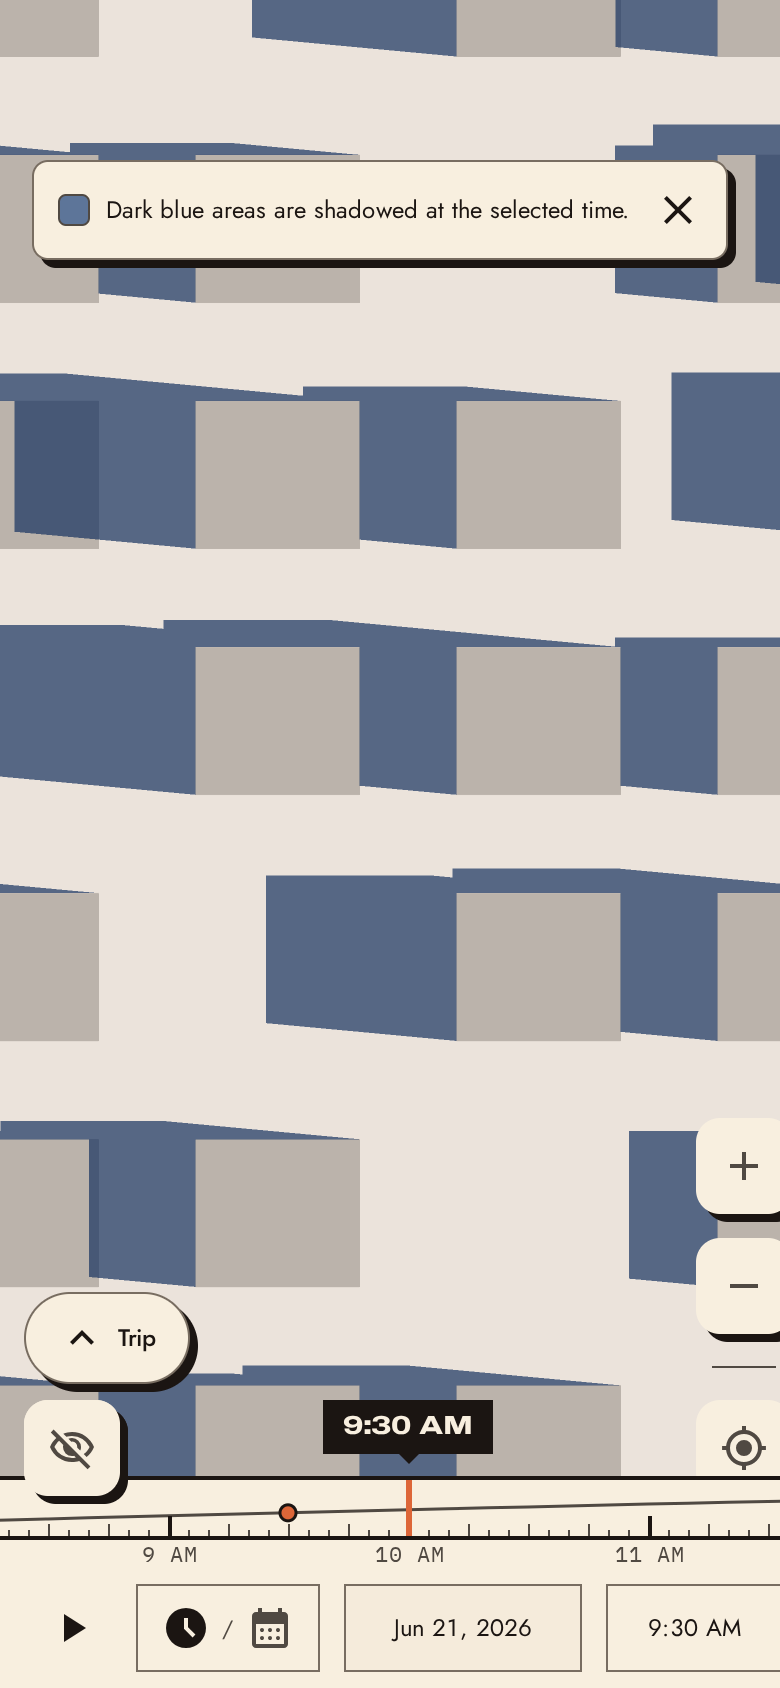
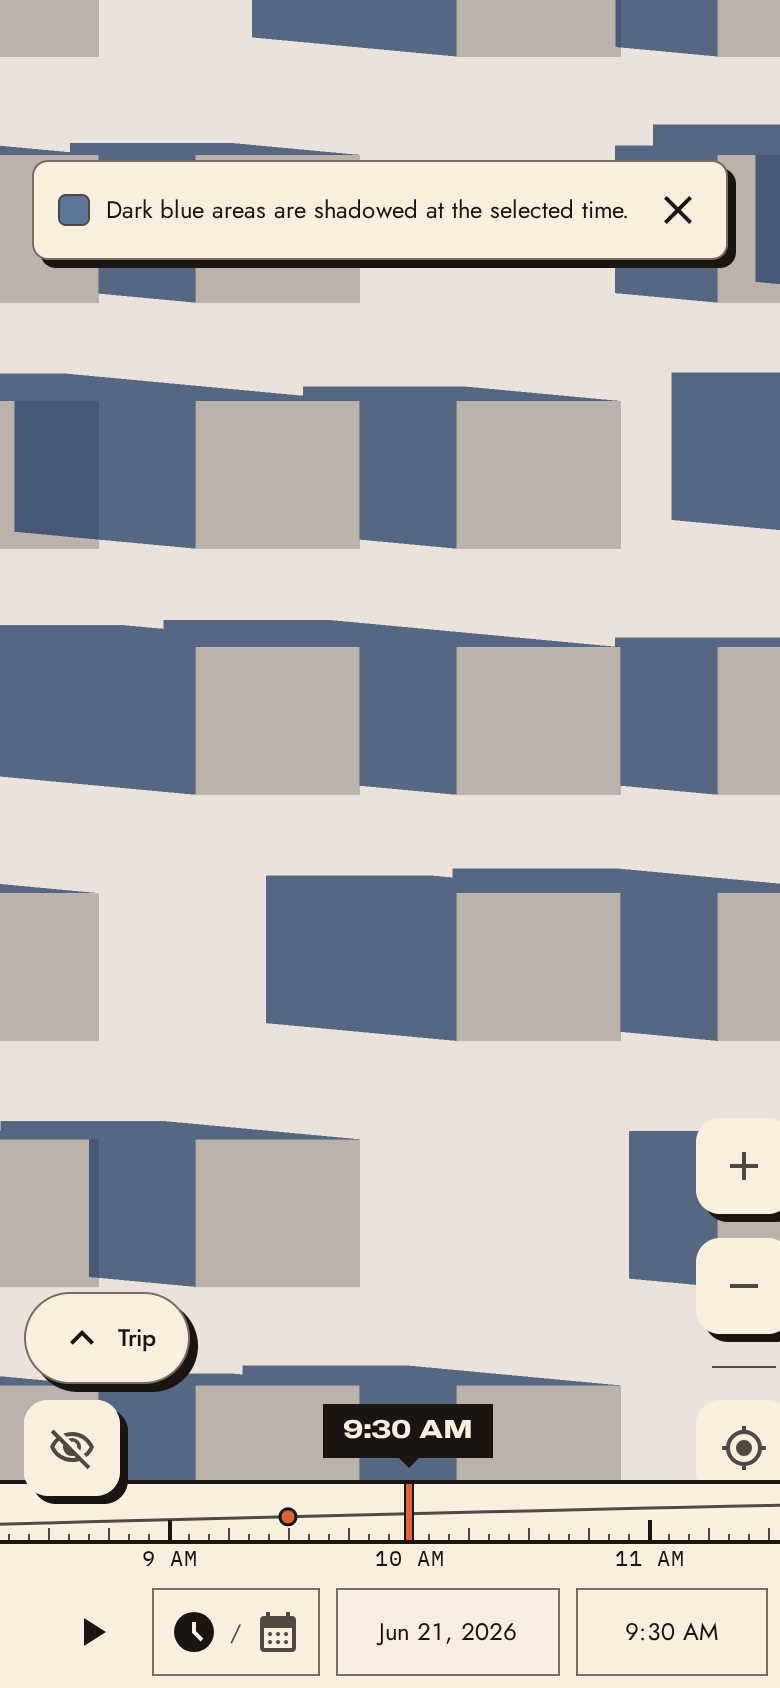
fix(design): hold the R6a timeline in glare and inside 390px
Ink keylines on the day needle, full-ink hour labels, a 2px ink border on an
editing Time/Date field, a no-sun-path note without a map place, and a controls
row that fits 390px while the card keeps its 104px. Updates the touch audit
and the Track R brief.

Changed region(s): [[0.0, 0.8318, 1.0, 1.0], [0.0615, 0.955, 0.1231, 0.9858]]

diff --git a/app/components/TimelineSlider.tsx b/app/components/TimelineSlider.tsx
@@ -125,7 +125,7 @@ const Ruler = memo(function Ruler() {
                 whiteSpace: "nowrap",
                 fontSize: 11,
                 lineHeight: 1,
-                color: "var(--color-ink-muted)",
+                color: "var(--color-ink)",
                 fontFamily: "var(--font-mono)",
                 userSelect: "none",
                 pointerEvents: "none",
@@ -182,6 +182,14 @@ const TimelineSlider = memo(function TimelineSlider({ minutes, onChange, date, l
         ? sunAltitudeTrace(date, latDeg, lngDeg, effectiveOffset)
         : null,
     [dayKey, latDeg, lngDeg, effectiveOffset],
+  );
+  const nights = useMemo(() => (trace ? nightSpans(trace) : []), [trace]);
+  const sunPathPoints = useMemo(
+    () =>
+      trace
+        ?.map((alt, i) => `${i * SUN_PATH_STEP_MIN * PX_PER_MIN},${RULE_Y - Math.max(0, alt) * PX_PER_DEG}`)
+        .join(" "),
+    [trace],
   );
   const containerRef = useRef<HTMLDivElement>(null);
   const contentRef = useRef<HTMLDivElement>(null);
@@ -355,21 +363,20 @@ const TimelineSlider = memo(function TimelineSlider({ minutes, onChange, date, l
         style={{ width: TOTAL_PX, willChange: "transform" }}
       >
         {/* ── Night: flat bands wherever the sun is at or below 0° ─────── */}
-        {trace &&
-          nightSpans(trace).map(([from, to]) => (
-            <div
-              key={from}
-              data-testid="timeline-night"
-              style={{
-                position: "absolute",
-                left: from * PX_PER_MIN,
-                width: (to - from) * PX_PER_MIN,
-                top: 0,
-                bottom: 0,
-                backgroundColor: "color-mix(in srgb, var(--color-ink) 8%, transparent)",
-              }}
-            />
-          ))}
+        {nights.map(([from, to]) => (
+          <div
+            key={from}
+            data-testid="timeline-night"
+            style={{
+              position: "absolute",
+              left: from * PX_PER_MIN,
+              width: (to - from) * PX_PER_MIN,
+              top: 0,
+              bottom: 0,
+              backgroundColor: "color-mix(in srgb, var(--color-ink) 8%, transparent)",
+            }}
+          />
+        ))}
 
         {sunriseMin !== undefined && <SunEventLabel minutes={sunriseMin} side="left" text={`↑ ${fmtMin(sunriseMin)}`} />}
         {sunsetMin !== undefined && <SunEventLabel minutes={sunsetMin} side="right" text={`↓ ${fmtMin(sunsetMin)}`} />}
@@ -385,15 +392,12 @@ const TimelineSlider = memo(function TimelineSlider({ minutes, onChange, date, l
             aria-hidden="true"
           >
             <polyline
-              points={trace
-                .map((alt, i) => `${i * SUN_PATH_STEP_MIN * PX_PER_MIN},${RULE_Y - Math.max(0, alt) * PX_PER_DEG}`)
-                .join(" ")}
+              points={sunPathPoints}
               fill="none"
               stroke="var(--color-ink-muted)"
               strokeWidth={1.5}
             />
-            {/* sun dot at the slider's time — the only element this component
-                re-renders for during a drag */}
+            {/* sun dot at the slider's time — with the needle, what a drag re-renders */}
             {sunDot && (
               <circle
                 data-testid="timeline-sun"
@@ -412,7 +416,8 @@ const TimelineSlider = memo(function TimelineSlider({ minutes, onChange, date, l
         <Ruler />
       </div>
 
-      {/* Needle: stands on the rule at the selected time, clear of the labels */}
+      {/* Needle: stands on the rule at the selected time, clear of the labels.
+          Ink keylines hold the orange core against the day panel in glare. */}
       <div
         data-testid="timeline-needle"
         className="absolute pointer-events-none z-10"
@@ -420,11 +425,20 @@ const TimelineSlider = memo(function TimelineSlider({ minutes, onChange, date, l
           left: "50%",
           top: 0,
           height: RULE_Y,
-          width: 3,
-          transform: "translateX(-1px)",
+          width: 5,
+          transform: "translateX(-2px)",
           backgroundColor: needleColor,
+          borderInline: "1px solid var(--color-ink)",
         }}
       />
+      {!trace && (
+        <span
+          className="absolute left-3 pointer-events-none select-none"
+          style={{ top: 2, fontSize: 11, lineHeight: 1, color: "var(--color-ink-muted)", fontFamily: "var(--font-mono)" }}
+        >
+          No sun path until the map has a place
+        </span>
+      )}
     </div>
   );
 });

diff --git a/app/page.tsx b/app/page.tsx
@@ -113,11 +113,11 @@ function TimeInput({
             setEditing(false);
           }
         }}
-        className="min-h-11 px-2 py-1 text-xs border focus:outline-none w-24 text-center"
+        className="min-h-11 px-2 py-1 text-xs border-2 focus:outline-none w-24 text-center"
         style={{
           background: "var(--color-ground)",
           color: "var(--color-ink)",
-          borderColor: "var(--color-rule)",
+          borderColor: "var(--color-ink)",
           fontFamily: "var(--font-sans)",
         }}
       />
@@ -822,7 +822,7 @@ export default function Home() {
     // Timetable (R6a): square, with a 2px ink rule along the top that holds
     // against either basemap in glare.
     <div
-      className="overflow-hidden border-t-2 md:border-2"
+      className="border-t-2 md:border-2"
       style={{
         background: "var(--color-panel)",
         borderColor: "var(--color-ink)",
@@ -889,8 +889,10 @@ export default function Home() {
         />
       )}
 
-      {/* Controls row */}
-      <div className="flex items-center justify-center gap-3 px-4 py-2">
+      {/* Controls row — pb-1.5 gives back the 2px top rule, so the card keeps
+          its 104px and the floating map controls their clearance. gap-2/px-2
+          fit the row inside 390px. */}
+      <div className="flex items-center justify-center gap-2 px-2 pt-2 pb-1.5">
         <button
           type="button"
           onClick={() => setIsPlaying((p) => !p)}
@@ -909,7 +911,7 @@ export default function Home() {
         <button
           type="button"
           onClick={() => setSliderMode((m) => (m === "time" ? "day" : "time"))}
-          className="flex min-h-11 items-center gap-1.5 px-3 hover:bg-ground transition-colors border"
+          className="flex min-h-11 items-center gap-1.5 px-2 hover:bg-ground transition-colors border"
           style={{ borderColor: "var(--color-rule)" }}
           title={sliderMode === "time" ? "Switch to day of year" : "Switch to time of day"}
         >

diff --git a/app/components/DateInput.tsx b/app/components/DateInput.tsx
@@ -106,11 +106,11 @@ const DateInput = memo(function DateInput({
             setEditing(false);
           }
         }}
-        className="min-h-11 px-2 py-1 text-xs border focus:outline-none w-32 text-center"
+        className="min-h-11 px-2 py-1 text-xs border-2 focus:outline-none w-28 text-center"
         style={{
           background: "var(--color-ground)",
           color: "var(--color-ink)",
-          borderColor: "var(--color-rule)",
+          borderColor: "var(--color-ink)",
           fontFamily: "var(--font-sans)",
         }}
       />
@@ -122,7 +122,7 @@ const DateInput = memo(function DateInput({
       type="button"
       aria-label={ariaLabel}
       onClick={startEdit}
-      className="min-h-11 text-xs tabular-nums w-32 text-center border px-2 py-1 hover:bg-ground transition-colors"
+      className="min-h-11 text-xs tabular-nums w-28 text-center border px-2 py-1 hover:bg-ground transition-colors"
       style={{
         color: "var(--color-ink)",
         borderColor: "var(--color-rule)",

diff --git a/app/components/__tests__/TimelineSlider.test.tsx b/app/components/__tests__/TimelineSlider.test.tsx
@@ -56,10 +56,11 @@ describe("TimelineSlider", () => {
     expect(screen.getByText("↓ 8:31 PM")).toBeTruthy();
   });
 
-  it("draws no sun path without a map place", () => {
+  it("says there is no sun path without a map place, rather than drawing none", () => {
     render(<TimelineSlider minutes={600} onChange={() => {}} />);
     expect(screen.queryByTestId("timeline-sun")).toBeNull();
     expect(screen.queryByTestId("timeline-night")).toBeNull();
+    expect(screen.getByText("No sun path until the map has a place")).toBeTruthy();
     expect(screen.getByText("10 AM")).toBeTruthy();
   });
 });

diff --git a/app/components/DaySlider.tsx b/app/components/DaySlider.tsx
@@ -192,7 +192,7 @@ const DaySlider = memo(function DaySlider({ dayOfYear, year, onChange }: Props) 
             {label && (
               <span
                 className="absolute text-[11px] leading-none whitespace-nowrap select-none"
-                style={{ top: RULE_Y + RULE_W + 2, left: 2, color: "var(--color-ink-muted)", fontFamily: "var(--font-mono)" }}
+                style={{ top: RULE_Y + RULE_W + 2, left: 2, color: "var(--color-ink)", fontFamily: "var(--font-mono)" }}
               >
                 {label}
               </span>

diff --git a/docs/tracks/TRACK_R.md b/docs/tracks/TRACK_R.md
@@ -24,7 +24,19 @@ inspiration; the public mirror publishes everything here.
 
 ## Current state
 
-- **Active checkpoint:** #157 — show every boarding and transfer in the transit route card
+- **Active checkpoint:** R6a — the timetable ruler (first slice of R6; R6b is #159: sheet
+  edge #138, SolarPill night wording #147, the hourly strip as a departures board). Ticks
+  stand on a 2px ink rule with IBM Plex Mono hour labels in full ink under it, so the
+  needle, which stops at the rule, never covers one. The band above is the real SunCalc
+  altitude across the map-local day (`lib/sunPath.ts`, 0° on the rule, 90° at the top,
+  replacing U4's stylised parabola). Night is a flat band wherever altitude ≤ 0°. The
+  needle is orange with ink keylines while the sun is up and ink once it is down. Without
+  a map place the ruler says so. The selected time is an ink ticket (no longer orange)
+  with a Sun down cell when `solar` is night. The day-of-year ruler matches (44px; the
+  seasonal sun/shade tints are gone). The card, buttons and Time/Date fields are square;
+  an editing field takes a 2px ink border. The card keeps its 104px height. Drag, inertia
+  and snap code is unchanged. Shots: `docs/design/shots/r6a/`.
+- **#157 (merged, via #158):** show every boarding and transfer in the transit route card
   and navigation itinerary. The path already carries each line; the card had collapsed it
   to the first one. Walking turns now come from the access and exit routes rather than a
   fixed zero. The rail time, wait and exposure remain whole-trip figures; no per-line
@@ -80,8 +92,8 @@ inspiration; the public mirror publishes everything here.
   request): start pin, round dots on foot through each walk step, the line's bullet heading
   a solid bar in its colour that ends in a ring at the exit stop, dots on to the destination
   pin; the ride step names its wait so steps sum to Time.
-- **Done:** R0 (#120), R1 (#122), R2 (#127), R3 (#132), R4a (#139), R4b (#141), R5a (#148) and
-  R5b (#152) merged.
+- **Done:** R0 (#120), R1 (#122), R2 (#127), R3 (#132), R4a (#139), R4b (#141), R5a (#148),
+  R5b (#152) and the transfer itinerary (#158) merged.
   R5a is the first consumer of R3's primitives: the option on a `Kicker plated`, `Tag` for
   Recommended (shade, or rain on rain cards; never orange), `LineBullet` per transit leg, and
   `Plate` now takes `button`/`a` (#128; a focused ink plate also takes the page-ink outline,
@@ -116,7 +128,7 @@ inspiration; the public mirror publishes everything here.
   (`app/components/mapPins.ts`, 44px square host, letter or number always shown); a
   reticle user dot; orange only on the sun diagram's daylight marks. No overlay colour is
   blue-dominant, so a drawn route no longer reads as shade (the old `#1d6ee0` did).
-- **Open PRs:** #158 (draft; fixes #157, transfer itinerary). Follow-ups: #140 (Track G: unit flakes under load); #124, #125, #126 (R2);
+- **Open PRs:** R6a (this checkpoint). R6a follow-ups: #159 (R6b), #160 (sunrise label vs 0° rule, owner call), #161 (drag readout goes stale; DaySlider touch-action), #162 (map controls overlap the card), #163 (ruler keyboard access). Older follow-ups: #140 (Track G: unit flakes under load); #124, #125, #126 (R2);
   #130 (R3); #137 (labels in shade ~2:1), #138 (R6 sheet edge); #147 (night wording left in
   SolarPill, leg rows, route labels); #150 (waypoint × under 44px), #151 (segmented as radio); #154 (Track G: refresh timer after jsdom teardown); filed elsewhere from R5a: #144, #145 (E), #146 (A).
 - **Decisions made:** D1–D5 in `docs/design/decision.md` are owner-approved and
@@ -129,7 +141,11 @@ inspiration; the public mirror publishes everything here.
   start action is a square ink button with the hard shadow, not a clipped plate (D4); transit
   bullets keep each line's published colour (N yellow, L grey) so cards match the map.
   Still open from R4b: hollow A/filled B swap at night; the opaque night route covers labels.
-- **Next action:** independent reviews of #158 when agent quota permits, then owner review and R6 — timeline and sheet (#138). #126 keeps its SettingsPanel/SaveRouteModal half.
+- **Next action:** owner review of R6a, then R6b (#159). #126 keeps its SettingsPanel/SaveRouteModal half.
+- **Last verified (R6a):** 2026-10-01 on Node 24; lint (0 errors, 80 baseline warnings),
+  typecheck, 1,810 unit tests, build, design:check and e2e 11/11 (smoke and nav-smoke; no
+  MapTiler key in the worktree, so smoke-live did not run). Day and night 390×844 shots on
+  the fixture basemap; a real-phone look in sun is outstanding.
 - **Last verified (#157):** 2026-10-01 on Node 24; lint (0 errors, 81 baseline warnings),
   typecheck, 1,806 unit tests, build, design:check and e2e 18/18. Day and night phone shots
   show filled 7 bullets, the change station, and the arrow-sign Transfer flag on the map. The supplied

diff --git a/docs/notes/touch-target-audit.md b/docs/notes/touch-target-audit.md
@@ -1,6 +1,6 @@
 # Touch Target Audit
 
-Date: 2026-08-16 · re-audited 2026-09-20 (U4: timeline, bottom sheet, search/sheet interplay, directions form)
+Date: 2026-08-16 · re-audited 2026-09-20 (U4: timeline, bottom sheet, search/sheet interplay, directions form) · 2026-10-01 (R6a: timeline and day rulers)
 
 Scope: timeline slider, day slider, bottom sheet, and floating map controls for a heatwave user outdoors on a phone, one-handed. The 2026-09-20 pass re-audited exactly the surfaces U4 changed.
 
@@ -8,8 +8,8 @@ Scope: timeline slider, day slider, bottom sheet, and floating map controls for 
 
 | Surface | Result | Notes |
 | --- | --- | --- |
-| Time scrubber | Pass | Track is `h-11` (44px) and draggable across the full width. U4 added the sun-arc glyph as `pointer-events: none` decoration inside the same 44px band — drag surface unchanged. |
-| Day scrubber | Pass | Track is 48px tall and draggable across the full width. |
+| Time scrubber | Pass | Track is `h-11` (44px) and draggable across the full width. R6a redrew it as a timetable ruler (ticks on a 2px ink rule, labels under it, the real sun path above); every mark is `pointer-events: none`, and the drag, inertia and throttle code is unchanged. |
+| Day scrubber | Pass | Track is 44px tall since R6a (was 48px), matching the time ruler, and draggable across the full width. |
 | Timeline controls row | Fixed | Play, time/day toggle, time input, date input, and year controls now expose at least 44px height. |
 | Bottom sheet drag handle | Fixed | Pointer capture area increased from 32px to 44px, with a 44px handle row. U4: the *visual* handle row yields to 36px while the sheet is settled at the collapsed snap, so the 80px band fits the trip bar's full 44px target below it; the drag gate still accepts pointers in the top 44px. |
 | Collapsed-sheet trip bar (U4) | Fixed | The 80px collapsed band previously clipped the bar to ~36px, and a stale content `scrollTop` could scroll it out of the band entirely. Now: the handle row yields to 36px when settled at collapsed, the content's bottom padding yields too, a collapse resets content scroll to the top, and the panel leads with the trip bar (flush to the band). Verified at 390×844: the bar renders 43px of its 44px (the sheet's 1px border takes one), hit area intact — prime thumb-zone (Fitts). The drag gate is the handle's own 36px at collapsed, so a bar tap never starts a drag; the gate is the full 44px at taller snaps. |
@@ -25,5 +25,5 @@ Primary mobile actions stay in the bottom sheet or near the lower-right map edge
 ## A11y notes (U4 pass)
 
 - `FloatingRouteCards`' card stack now carries `role="radiogroup"` + `aria-label="Route options"`, matching the panel's stack (the smoke spec already queries that signature).
-- The sun-arc SVG is `aria-hidden` — the time readout is the accessible statement of the same fact.
+- The sun-path SVG is `aria-hidden` — the time readout is the accessible statement of the same fact; since R6a it also says "Sun down" when the ruler has no sun dot.
 - The partial/failed notice is a `role="status"` pill inside the radiogroup's visual order.
